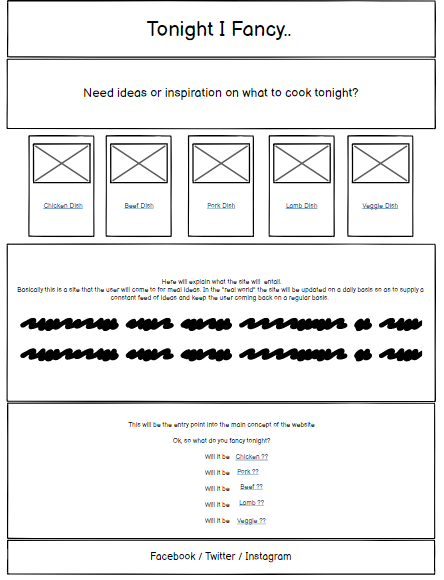
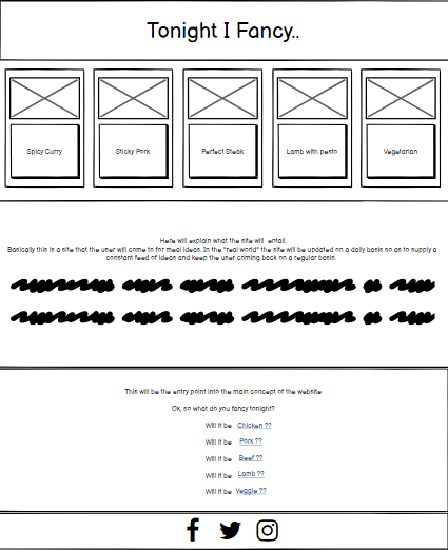
Possibly finished site, await word from mentor and continue testing on mobiles

Changed region(s): [[0.0, 0.0, 1.0, 1.0]]

diff --git a/style.css b/style.css
@@ -14,7 +14,7 @@ p {
     padding-bottom: 30px;
     font-family: 'Shippori Mincho', sans-serif;
     font-size: 3vw;
-    color:rgb(36, 34, 34);
+    color: #242222;
 }
     
 .wrapper {
@@ -51,7 +51,7 @@ p {
     margin-right: 5%; 
     margin-bottom: 0;
     
-    color: rgb(36, 34, 34);
+    color: #242222;
     /* text-shadow: 2px 2px 5px black; */
     text-align: center;
     padding: 30px 30px 30px;
@@ -128,7 +128,7 @@ p {
 .info p {
     background-color: #f5f7dc;
     font-family:'Shippori Mincho', sans-serif;
-    border: 1px solid rgb(36, 34, 34);
+    border: 1px solid #242222;
     padding-left: 10px;
     padding-right: 10px;
     margin-top: 20px;
@@ -236,7 +236,7 @@ article ol {
     box-shadow: 12px 12px 16px 0 rgba(0, 0, 0, 0.25) inset, -8px -8px 12px 0 rgba(255, 255, 255, 0.3)inset;
 }
 .contact-form {
-    background-color: white;
+    /* background-color: white; */
     margin: 20px 20px 70px 20px;
     text-align: center;
     font-family: 'Cormorant Garamond' , sans-serif;

diff --git a/README.md b/README.md
@@ -47,12 +47,13 @@ This led me to thinking how handy it would be if there was a website (and I know
     ---
 # Early Stages
 
-<img src="wireframes/wireframe1.png" alt="wireframe1" width="300"> 
-<img src="wireframes/wireframe2.png" alt="wireframe2" width="300">
-<img src="wireframes/wireframe3.png" alt="wireframe3" width="300">
+<img src="wireframes/wireframe1.png" alt="wireframe1" width="230"> 
+<img src="wireframes/wireframe2.png" alt="wireframe2" width="230">
+<img src="wireframes/wireframe3.png" alt="wireframe3" width="230">
+<img src="wireframes/wireframe4.png" alt="wireframe4" width="230">
 
-- These are the 3 wireframes which I planned to use within the site. As stated before, very plain, straightforward design to get the user to their required purpose with minimal fuss or confusion. 
-- My original plan was to have the 5 cards in desktop view maintain visibility throughout into mobile views but I felt that it became too cluttered so I opted that once reaching a lower resolution, they should "collapse" into a dropdown menu bar, still with active links directing the user to their required purpose. 
+- These are the 4 wireframes which I planned to use within the site. As stated before, very plain, straightforward design to get the user to their required purpose with minimal fuss or confusion. 
+- My original plan was to have the 5 cards in desktop view maintain visibility throughout into mobile views but I felt that it became too cluttered so I opted that once reaching a lower resolution, they should "collapse" into a dropdown menu bar, still with active links directing the user to their required purpose. A collage image should be present giving a visual representation of the dishes on offer. 
 - My original plan for the recipe pages was to have an image of the dish on offer at the forefront of the page but I wasn't content that an image would be enough so I opted to have tutorial videos of each dish, offering a walkthrough of how to prepare the dish. I felt that this makes for a more enticing approach when dealing with food.
 - My original plan for the social links in the footer was to use the written word rather than the usual icon approach, however after having the option reviewed by my family members the general concensus was to stick with what people expect to see which is the social icons. Also, this gives the site a small element of global appeal for those that don't speak english as they will still recognise the icons. 
 
@@ -74,6 +75,7 @@ This led me to thinking how handy it would be if there was a website (and I know
 - To enhance the text I used a text-shadow effect on all textual items giving a lift to the text and creating continuity throughout the site. On this occasion I used a black coloring for the shadow.
 - For added styling I used the -webkit-linear-gradient- method on the main banner, the dropdown menu, and the footer to give a fade effect.
 - For defining the buttons on the menu cards that appear on the landing page I used a method called neumorphism to make the buttons stand out and appear as an interactive element.
+- I also adopted the neumorphism method on the contact form. I wanted to keep the form very simple so I felt that interest should come from a styling perspective
 
 - For the textual elements I imported in two font familys from Google Fonts.
     - <img src="images/font1.png" alt="font1" width="30%" height="30%">
@@ -86,11 +88,11 @@ This led me to thinking how handy it would be if there was a website (and I know
 # The Website Features
 
 - ## <u>As Submitted</u>
-    - The finished website as it stands is a simplistic, very approachable site. One page to welcome the user and explain it's purpose with essentially one other page featuring the users selected choice.
+    - The finished website as it stands is a simplistic, very approachable site. One page to welcome the user and explain the sites purpose, and from there the user will navigate to the recipe they wish to view. There is also a contact form for getting in touch with suggestions, complaints or compliments. At this stage of my skillset I have the user redirected back to the homepage once the submit button has been selected so as to keep the flow of the site constant.
     - I purposely decided to leave out a navigation button because I felt on this site it wouldn't be a necessary item. The options are right in front of the user. Perhaps as the site developed with more features there would be a need for one but for now I'm wanting to stick to the minimalistic style.
-    - Navigation around the site consists of simple links. Each menu card on the landing page is selectable for accessing the selected option. On smaller screens the five card menu options become a dropdown menu, again with the five dinner choices all selectable to take the user to their choice. Additionally, at the bottom of the landing page there are the five choices of main ingredients, Chicken, Pork, Beef, Lamb, and Vegetarian, again all selectable links.<br> 
+    - Navigation around the site consists of simple links. Each menu card on the landing page is selectable for accessing the selected option. On smaller screens the five card menu options become a dropdown menu, again with the five dinner choices all selectable to take the user to their choice. Additionally, at the bottom of the landing page there are the five choices of main ingredients, Chicken, Pork, Beef, Lamb, Vegetarian and the 'Get in Touch' option, again all selectable links.<br> 
     The "recipe" page features a welcome banner, a tutorial video on how to make the selected dish, a list of the required ingredients, and the method for making the dish. Additionally, if the user decides the recipe is not the one they want, the remaining options are still at the bottom of the page, giving the user the opportunity to select another option.
-    - As standard I have included social media links to Facebook, Twitter and Instagram which in the real world would all link to the business pages, at the moment they take the user to the log-in section of each. On the "recipe" pages, I have also included a link back to the homepage should the user wish to return to the start. The main banner title "Tonight I Fancy.." is also selectable in the "recipe" pages to take you back to the main page.
+    - As standard I have included social media links to Facebook, Twitter and Instagram which in the real world would all link to the business pages, at the moment they take the user to the log-in section of each. On the "recipe" pages, I have also included a link back to the homepage should the user wish to return to the start. The main banner title "Tonight I Fancy.." is also selectable in the "recipe" pages to take you back to the main page but I chose not to highlight it's usability, treat it more of an 'easter egg' that users can discover. There is the homepage icon at the bottom of the screen so the user should not feel stuck.
     - By means of support I have also made the titles of those responsible for providing the recipe and the tutorial videos selectable, taking the user to their respective home sites.
 
 - ## <u>Features I would include in the future</u>
@@ -100,6 +102,7 @@ This led me to thinking how handy it would be if there was a website (and I know
     - I would like to see affiliations with other sites similar to Listonic wherein you can save and transfer your ingredients to a shopping list application. Similar to that, I would like to have an ability to save selected ingredients into a database on the site which can then be accessed as a shopping list on a mobile device.
     - I would like a method of recording how many hits each recipe/ingredient recieved over a period of time to gauge how popular each item is. This information would then be used to determine future options and choices.
     - Outside of the coding aspect, I would envisage employing staff to create our own tutorial videos and so putting a face to the brand of "Tonight I Fancy.."
+    - When selecting the links to those who supplied the recipes and tutorials, I would have ideally liked the sites to open within my own site but seemingly there is an issue with opening https sites within https sites. This is something that I'm sure can be worked around but at the moment it's an addition for the future.
 
 # The Coding Languages and Techniques Used
 
@@ -116,15 +119,16 @@ This led me to thinking how handy it would be if there was a website (and I know
     -   The Landing Page:
         - The five cards each take the user to the selected meal option.
         - The five ingredient options also take the user to the meal option for that ingredient.
+        - The 'Get in Touch' option to navigate the user to the contact form.
         - There are three social link icons in the footer, each take the user to the relevant social media site opening in a new page.
     
     - The Mobile Landing Page:
         - In place of the card menu preview, there is now a dropdown menu featuring the 5 meal option and again, each option will take the user to the relevant page. 
-        - The five ingredient options are still in place as are the social links in the footer.
+        - The five ingredient options are still in place as is the contact form link and the social links in the footer.
 
     - The Recipe Pages:
         - The "Tonight I Fancy.." title in the top banner will take the user back to the home page.
-        - The video is playable within it's own place.
+        - The video is playable within it's own frame.
         - The name of the recipe supplier when selected will take the user to their own website in a new tab.
         - The name of the tutorial supplier when selected will take the user to their own website in a new tab.
         - The four remaining ingredient options after the recipe will take the user to the relevant page.
@@ -147,7 +151,12 @@ This led me to thinking how handy it would be if there was a website (and I know
 
     - Google Lighthouse - to test perfomance 
 
-- An issue that Lighthouse raised was to use a < link > attribute when accessing external fonts instead of the @import option that I had currently used, so I implemented the advice. 
+
+    - Thankfully there were not many issues raised during testing.
+    - To increase performance it was suggested to use a < link > attribute when accessing external fonts instead of the @import option that I had currently used, so I implemented the advice.
+    -  There were a couple of mis-matched or missing tags that I was able to fix with no problem.
+    - I had inserted 'paragraph' breaks within the recipe pages that I had imported in from Fontawesome, these were problematic because I hadn't them inserted into the code correctly (I had not placed them inside the < li > tags). 
+
 
 - Towards the end of the creative process I began to regularly push any changes made to the live site so I was able to test the site on:
 
@@ -166,6 +175,10 @@ This led me to thinking how handy it would be if there was a website (and I know
             alt="Valid CSS!" />
     </a>
 </p>
+
+- My final audit from Google lighthouse read a respectable<br>
+<br>
+<img src="images/lighthouseresult.png" alt="font1" width="30%" height="30%">
 
 # Credits
 
@@ -188,7 +201,7 @@ Throughout the creation of this project I have referred to the following for ass
 
 - Acknowledgement
 
-    - I would like to thank Code Institute for the knowledge and the motivation shown to me up to this point. As a  complete newbie to coding I am so proud that thanks to CI I have the ability to acheive this creation. I look forward to the rest of the course and a new future career.
+    - I would like to thank Code Institute for the knowledge and the motivation shown to me up to this point. I would also like to thank my mentor Gurjot Singh for his advice in completing this project. As a  complete newbie to coding I am so proud that thanks to CI I have the ability to acheive this creation. I look forward to the rest of the course and a new future career.
 
 
 # - [Back to top](#contents)
